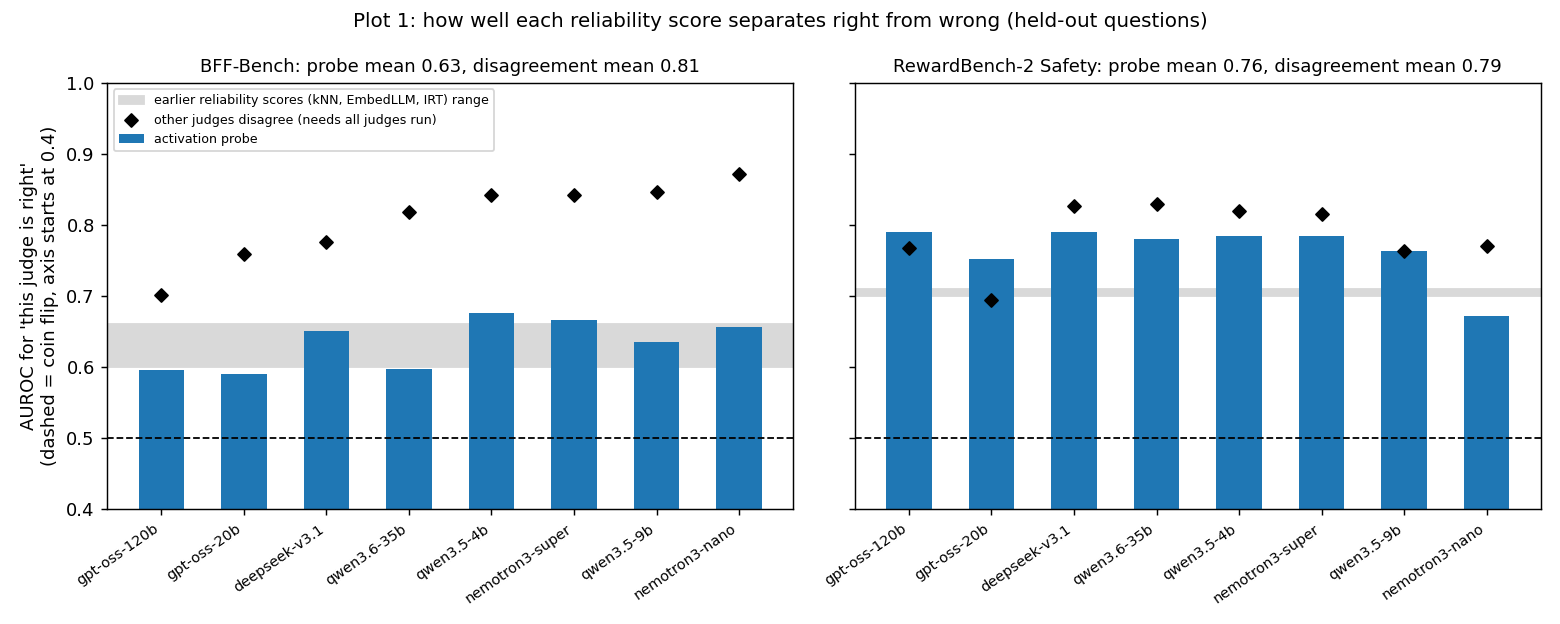
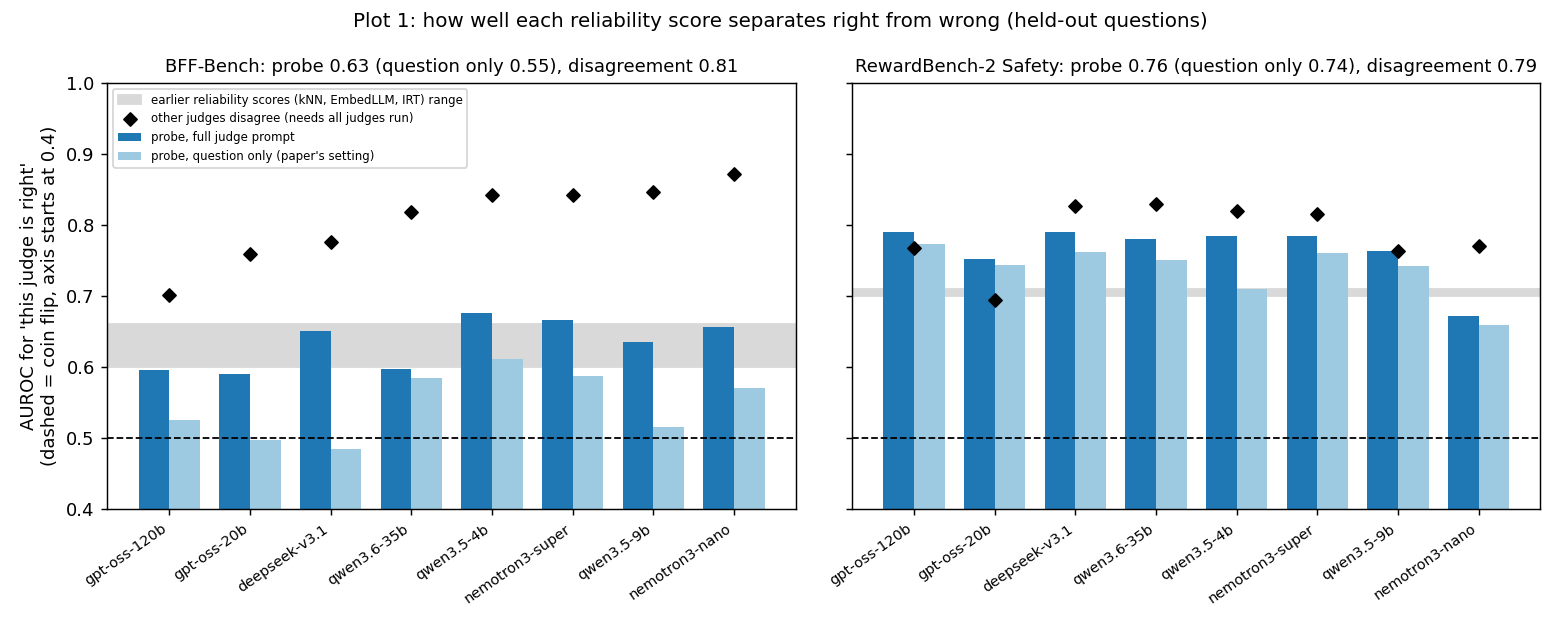
Add the question-only probe (the paper's setting) to the No Answer Needed README and Plot 1

diff --git a/experiments/no_answer_needed/make_plots.py b/experiments/no_answer_needed/make_plots.py
@@ -10,15 +10,15 @@ judges = ["deepseek-v3.1", "gpt-oss-120b", "gpt-oss-20b", "nemotron3-nano", "nem
 
 # ---- Plot 1: how well does each reliability score rank 'judge is right' above 'judge is wrong'? (AUROC, held-out questions)
 order = ["gpt-oss-120b", "gpt-oss-20b", "deepseek-v3.1", "qwen3.6-35b", "qwen3.5-4b", "nemotron3-super", "qwen3.5-9b", "nemotron3-nano"]
-P1 = {"BFF-Bench": dict(probe=[.596, .590, .651, .598, .676, .666, .635, .656], dis=[.701, .759, .776, .818, .842, .843, .847, .872], old=(.60, .66)),
-      "RewardBench-2 Safety": dict(probe=[.790, .752, .790, .781, .784, .784, .764, .672], dis=[.768, .694, .827, .829, .820, .815, .764, .770], old=(.70, .71))}
+P1 = {"BFF-Bench": dict(probe=[.596, .590, .651, .598, .676, .666, .635, .656], dis=[.701, .759, .776, .818, .842, .843, .847, .872], qo=[.526, .497, .485, .584, .612, .588, .515, .570], old=(.60, .66)),
+      "RewardBench-2 Safety": dict(probe=[.790, .752, .790, .781, .784, .784, .764, .672], dis=[.768, .694, .827, .829, .820, .815, .764, .770], qo=[.773, .744, .762, .751, .710, .761, .742, .659], old=(.70, .71))}
 fig, axs = plt.subplots(1, 2, figsize=(12, 4.8), sharey=True)
 for ax, (name, d) in zip(axs, P1.items()):
     x = np.arange(8); ax.axhspan(*d["old"], color="0.85", zorder=0, label="earlier reliability scores (kNN, EmbedLLM, IRT) range")
-    ax.bar(x, d["probe"], .55, color=PROBE, label="activation probe"); ax.scatter(x, d["dis"], marker="D", color="k", zorder=3, s=26, label="other judges disagree (needs all judges run)")
+    ax.bar(x - .19, d["probe"], .38, color=PROBE, label="probe, full judge prompt"); ax.bar(x + .19, d["qo"], .38, color="#9ecae1", label="probe, question only (paper's setting)"); ax.scatter(x, d["dis"], marker="D", color="k", zorder=3, s=26, label="other judges disagree (needs all judges run)")
     ax.axhline(.5, color="k", lw=1, ls="--"); ax.set_xticks(x); ax.set_xticklabels(order, rotation=35, ha="right", fontsize=8); ax.set_ylim(.4, 1.0)
-    ax.set_title(f"{name}: probe mean {np.mean(d['probe']):.2f}, disagreement mean {np.mean(d['dis']):.2f}", fontsize=10)
-axs[0].set_ylabel("AUROC for 'this judge is right'\n(dashed = coin flip, axis starts at 0.4)"); axs[0].legend(fontsize=7, loc="upper left")
+    ax.set_title(f"{name}: probe {np.mean(d['probe']):.2f} (question only {np.mean(d['qo']):.2f}), disagreement {np.mean(d['dis']):.2f}", fontsize=10)
+axs[0].set_ylabel("AUROC for 'this judge is right'\n(dashed = coin flip, axis starts at 0.4)"); axs[0].legend(fontsize=6.5, loc="upper left")
 fig.suptitle("Plot 1: how well each reliability score separates right from wrong (held-out questions)", fontsize=11)
 fig.tight_layout(); fig.savefig(os.path.join(out, "plot1_reliability_score.png"), dpi=130); plt.close(fig)
 

diff --git a/experiments/no_answer_needed/README.md b/experiments/no_answer_needed/README.md
@@ -16,7 +16,10 @@ Run a small model on an item and save its internal numbers (activations) before 
 
 ## Setup
 
-BFF-Bench (459 items) and RewardBench-2 Safety (1,800 items), with the saved verdicts of our 8 judges. A judge is "right" when its verdict matches the human label. Activations come from Qwen3.5-4B run on each judge prompt (no-thinking mode), at the last prompt token, every second layer.
+BFF-Bench (459 items) and RewardBench-2 Safety (1,800 items), with the saved verdicts of our 8 judges. A judge is "right" when its verdict matches the human label. Activations come from Qwen3.5-4B (no-thinking mode), at the last prompt token, every second layer. We use two inputs:
+
+- **Question only** (the paper's setting): just the question or conversation, no response and no grading instructions.
+- **Full judge prompt:** the grading instructions, the question and the response being graded, which is what a judge actually reads.
 
 ## Results
 
@@ -24,15 +27,18 @@ BFF-Bench (459 items) and RewardBench-2 Safety (1,800 items), with the saved ver
 
 ![Plot 1](figures/plot1_reliability_score.png)
 
-| | Probe (mean AUROC) | Earlier scores | Other judges disagree |
-|---|---|---|---|
-| BFF-Bench | **0.63** | 0.60 to 0.66 | 0.81 |
-| RewardBench-2 | **0.77** | 0.70 to 0.71 | 0.79 |
+| Mean AUROC over the 8 judges | Probe, question only | Probe, full judge prompt | Earlier scores | Other judges disagree |
+|---|---|---|---|---|
+| BFF-Bench | 0.55 | **0.63** | 0.60 to 0.66 | 0.81 |
+| RewardBench-2 | **0.74** | **0.77** | 0.70 to 0.71 | 0.79 |
 
-- Against the earlier scores: **on par on BFF, about 0.06 better on RewardBench-2.**
+- **Question only (paper's setting):** works on RewardBench-2 (0.74, above the earlier scores) and is close to a coin flip on BFF (0.55). On RewardBench-2 the score peaks in the middle layers (18 to 22) and stays flat after, as the paper reports. Early layers give about 0.64, so it is not just surface text.
+- **Full judge prompt:** on par with the earlier scores on BFF and about 0.06 better on RewardBench-2. On BFF, whether a judge is right depends on the response, which only this version sees.
 - Against disagreement: **weaker.** It loses for all 8 judges on BFF and for 4 of 8 on RewardBench-2 (3 wins, 1 tie), but costs far less to compute.
 
-### Plot 2: routing each item to one judge by the probe's score
+Question-only numbers are the mean of 20 (BFF) or 10 (RewardBench-2) random splits by question; the full-judge-prompt numbers in the plot are 5-fold held-out scores. The two protocols agree within 0.003 on the means.
+
+### Plot 2: routing each item to one judge by the probe's score (full judge prompt)
 
 ![Plot 2](figures/plot2_routing.png)
 
@@ -42,7 +48,7 @@ The blue curve moves left as the cost penalty grows. The orange curve is the sam
 - At about one-fifth of the cost of the static top-3 vote: RewardBench-2 is on par (0.856 vs 0.841); BFF is 3 points lower (0.839 vs 0.874).
 - **Does not clearly beat the best single judge** (RewardBench-2 +0.010, interval [0.000, +0.019]; BFF -0.015, interval [-0.038, +0.007]).
 
-### Plot 3: a probe trained on one benchmark, scored on the other
+### Plot 3: a probe trained on one benchmark, scored on the other (full judge prompt)
 
 ![Plot 3](figures/plot3_transfer.png)
 
@@ -50,12 +56,12 @@ At or below a coin flip (0.46 and 0.49). The paper also reports that transfer fa
 
 ## Verdict
 
-Roughly on par with our earlier reliability scores, a bit better on RewardBench-2. Weaker than judge disagreement, no better than the best single judge for routing, and it does not transfer. Not a breakthrough.
+The paper's idea replicates on RewardBench-2: the question alone predicts a judge's reliability, about 0.03 above our earlier scores. It does not on BFF. With the full judge prompt it is on par with the earlier scores on BFF and about 0.06 better on RewardBench-2. It is weaker than judge disagreement, no better than the best single judge for routing, and does not transfer across benchmarks. Not a breakthrough.
 
 ## Limits
 
 - All activations come from **Qwen3.5-4B**. For the other 7 judges the probe measures how a small model reads the item, not that judge's own internals.
-- The judge prompt includes the response being graded, so this is "before generation" as in the paper, but not question-only.
+- A judge grades a response, which differs from the paper, where the model answers a question. The question-only input is the closest we can get.
 - BFF has only 80 questions, so its results are noisy. The best-single and top-3 baselines were chosen on all items, which slightly favours them.
 
 ## Files
